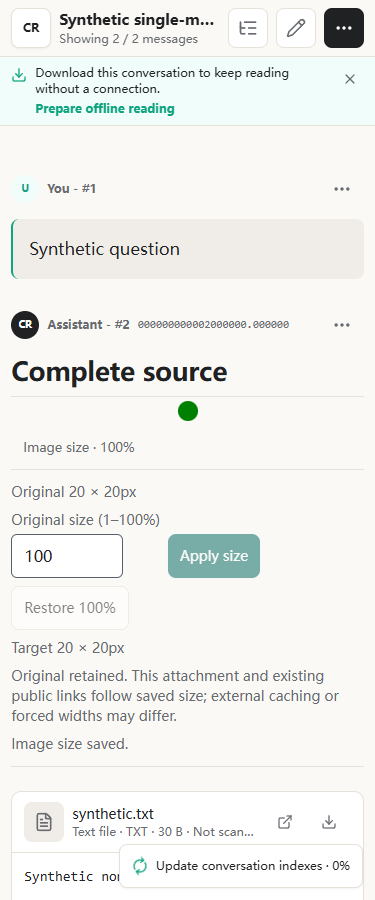
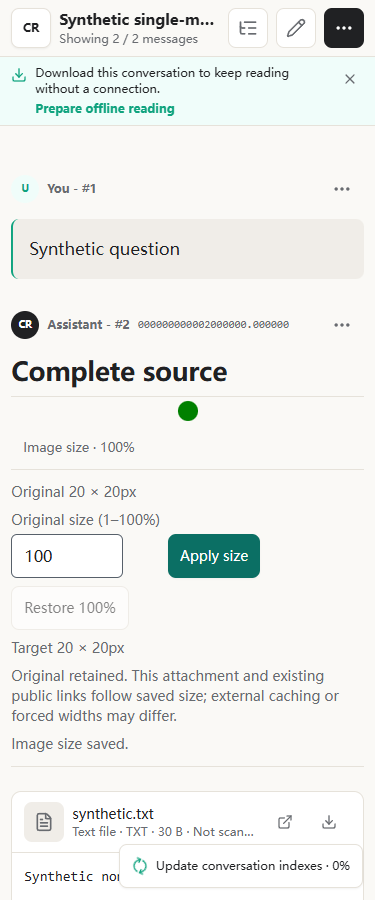
fix: bound image size reads and patch release security dependencies

Changed region(s): [[0.44, 0.5911, 0.704, 0.6533], [0.352, 0.9333, 0.3813, 0.9956]]

diff --git a/apps/web/features/attachments/image-display-controls.tsx b/apps/web/features/attachments/image-display-controls.tsx
@@ -45,7 +45,6 @@ function SizeEditor({ attachment, zh, generation }: { attachment: AttachmentRead
   const { display, queryKey } = useImageDisplay(attachment);
   useEffect(() => () => { active.current?.abort(); }, []);
   const valid = /^\d+$/.test(draft) && Number(draft) >= 1 && Number(draft) <= 100;
-  const changed = current && Number(draft) !== current.scale_percent;
   const isCurrent = (controller: AbortController) => !controller.signal.aborted && generation === authenticationGeneration();
   async function read() {
     active.current?.abort();
@@ -57,7 +56,15 @@ function SizeEditor({ attachment, zh, generation }: { attachment: AttachmentRead
       if (value.source_sha256 !== attachment.asset_object?.sha256) throw new Error("Source changed");
       setCurrent(value); setDraft(String(value.scale_percent));
       client.setQueryData(queryKey, value);
-    } catch { if (isCurrent(controller)) setError(zh ? "无法读取图片尺寸，请重新读取。" : "Could not read image dimensions. Reload to retry."); }
+    } catch (failure) {
+      if (isCurrent(controller)) {
+        const unsupported = typeof failure === "object" && failure !== null && "status" in failure
+          && (failure.status === 413 || failure.status === 422);
+        setError(unsupported
+          ? (zh ? "图片过大或不支持安全缩放，仍可查看或下载原图。" : "Image is too large or unsupported for safe sizing. View or download the original instead.")
+          : (zh ? "无法读取图片尺寸，请重新读取。" : "Could not read image dimensions. Reload to retry."));
+      }
+    }
     finally { if (isCurrent(controller)) setBusy(false); }
   }
   async function save(percent: number) {
@@ -91,7 +98,7 @@ function SizeEditor({ attachment, zh, generation }: { attachment: AttachmentRead
     {open ? <div className="border-y border-ui py-3">
       <p>{current ? `${zh ? "原始" : "Original"} ${current.original_width} × ${current.original_height}px`
         : busy ? (zh ? "正在读取原始尺寸…" : "Reading original dimensions…") : (zh ? "原始尺寸尚未读取" : "Original dimensions unavailable")}</p>
-      <form className="mt-2 flex flex-wrap items-end gap-2" onSubmit={event => { event.preventDefault(); if (valid && changed && !error) void save(Number(draft)); }}>
+      <form className="mt-2 flex flex-wrap items-end gap-2" onSubmit={event => { event.preventDefault(); if (valid && current && !error) void save(Number(draft)); }}>
         <label className="flex flex-col gap-1">
           <span>{zh ? "相对原图比例（1–100%）" : "Original size (1–100%)"}</span>
           <input type="number" min="1" max="100" step="1" value={draft}
@@ -99,7 +106,7 @@ function SizeEditor({ attachment, zh, generation }: { attachment: AttachmentRead
             className="image-display-input h-11 w-28 rounded-md border bg-surface px-3 text-base text-primary focus-visible:outline-none focus-visible:ring-2 focus-visible:ring-[var(--focus)]"
             onChange={event => { setDraft(event.target.value); setSaved(false); }} />
         </label>
-        <button type="submit" className="btn-primary image-display-apply min-h-11 shrink-0 px-3" disabled={busy || !valid || !changed || Boolean(error)}>
+        <button type="submit" className="btn-primary image-display-apply min-h-11 shrink-0 px-3" disabled={busy || !current || !valid || Boolean(error)}>
           {busy ? (zh ? "处理中…" : "Working…") : (zh ? "应用比例" : "Apply size")}
         </button>
         <button type="button" className="btn-secondary min-h-11 shrink-0 px-3" disabled={busy || !current || current.scale_percent === 100 || Boolean(error)} onClick={() => void save(100)}>

diff --git a/apps/web/e2e/message-markdown-copy.spec.ts b/apps/web/e2e/message-markdown-copy.spec.ts
@@ -91,12 +91,34 @@ for (const width of [1440, 375]) test(`${width}px copies whole message Markdown 
     // private and unchanged. Exercise real inline controls, not a CSS adapter.
     const original = await page.request.get(`/api/attachments/${svg.id}/content`);
     const originalBytes = await original.body();
+    // Explicit failure injection only: an admission denial must not suggest
+    // blindly resaving or replace the retained original.
+    const displayRoute = `**/api/attachments/${svg.id}/image-display`;
+    await page.route(displayRoute, route => route.fulfill({
+      status: 413, contentType: "application/json", body: '{"detail":"Synthetic size admission limit"}',
+    }));
     await article.getByRole("button", { name: /Image size ·|图片大小 ·/ }).click();
+    await expect(article.getByRole("alert")).toHaveText(/View or download the original|仍可查看或下载原图/);
     const scale = article.getByRole("spinbutton", { name: /Image scale percentage|图片缩放百分比/ });
+    await expect(scale).toBeDisabled();
+    await page.unroute(displayRoute);
+    await article.getByRole("button", { name: /Reload size|重新读取/ }).click();
     await expect(scale).toHaveValue("100");
-    await scale.fill("50");
-    await article.getByRole("button", { name: /Apply size|应用比例/ }).click();
+    // Explicitly applying the unchanged 100% configures intrinsic size; the
+    // same action remains available for a missing-derivative repair.
+    const applySize = article.getByRole("button", { name: /Apply size|应用比例/ });
+    await expect(applySize).toBeEnabled();
+    await applySize.click();
     await expect(article.getByRole("status").filter({ hasText: /Image size saved|比例已保存/ })).toBeVisible();
+    await scale.fill("50");
+    await applySize.click();
+    await expect(article.getByRole("status").filter({ hasText: /Image size saved|比例已保存/ })).toBeVisible();
+    await expect(applySize).toBeEnabled();
+    await Promise.all([
+      page.waitForResponse(response => response.url().endsWith(`/api/attachments/${svg.id}/image-display`)
+        && response.request().method() === "PUT" && response.status() === 200),
+      applySize.click(),
+    ]);
     expect((await page.request.get(`/api/attachments/${svg.id}/image-display`)).status()).toBe(200);
     const imageSize = async () => {
       await external.goto(url!);

diff --git a/apps/api/tests/test_image_display.py b/apps/api/tests/test_image_display.py
@@ -231,6 +231,7 @@ def test_exif_orientation_is_applied_once_from_original(client, monkeypatch, tmp
 @pytest.mark.parametrize("boundary", ["source_pixels", "result_pixels", "result_edge", "bytes"])
 def test_resize_limits_preserve_last_saved_setting(client, monkeypatch, tmp_path, boundary):
     import app.services.assets.image_display as service
+    byte_limit = service.MAX_BYTES
     case = seed(monkeypatch, tmp_path)
     assert save(client, case, 50).status_code == 200
     if boundary == "source_pixels":
@@ -247,4 +248,30 @@ def test_resize_limits_preserve_last_saved_setting(client, monkeypatch, tmp_path
     # to different bytes. Other failures leave the previous 50% selection intact.
     expected = 100 if boundary == "result_edge" else 50
     assert save(client, case, 90, expected=expected).status_code == 413
+    monkeypatch.setattr(service, "MAX_BYTES", byte_limit)
     assert client.get(endpoint(case)).json()["scale_percent"] == expected
+
+
+@pytest.mark.parametrize("boundary", ["recorded", "actual"])
+def test_header_inspection_checks_bytes_before_pillow(client, monkeypatch, tmp_path, boundary):
+    import app.services.assets.image_display as service
+    from app.services.assets.asset_store import get_asset_store
+    case = seed(monkeypatch, tmp_path)
+    assert save(client, case, 50).status_code == 200
+    with database() as db:
+        asset = db.get(AssetObject, uuid.UUID(case["raster_asset"]))
+        if boundary == "recorded":
+            asset.byte_size = service.MAX_BYTES + 1
+            db.commit()
+        else:
+            # Synthetic task storage only. A sparse extension also proves the
+            # actual file bound is independent of potentially stale metadata.
+            with get_asset_store().resolve_key(asset.storage_key).open("r+b") as stream:
+                stream.truncate(service.MAX_BYTES + 1)
+    def forbidden_decode(*args, **kwargs):
+        raise AssertionError("Pillow must not inspect an over-limit file")
+    monkeypatch.setattr(service.Image, "open", forbidden_decode)
+    assert client.get(endpoint(case)).status_code == 413
+    assert save(client, case, 100, expected=50).status_code == 413
+    with database() as db:
+        assert db.get(Attachment, uuid.UUID(case["raster"])).metadata_["image_display_v1"]["scale_percent"] == 50

diff --git a/apps/api/app/services/assets/image_display.py b/apps/api/app/services/assets/image_display.py
@@ -70,6 +70,10 @@ def dimensions(content) -> tuple[int, int]:
             raise AttachmentAccessError("SVG dimensions are unsupported.", 422) from exc
     if mime not in RASTER_TYPES:
         raise AttachmentAccessError("Only supported images can be resized.", 422)
+    # Header inspection can itself read large EXIF/ICC/text segments. Enforce
+    # the encoded-byte limit before Pillow, including the read-only size route.
+    if content.asset_object.byte_size > MAX_BYTES or content.path.stat().st_size > MAX_BYTES:
+        raise AttachmentAccessError("Image exceeds the 16 MiB size-inspection limit.", 413)
     try:
         with warnings.catch_warnings():
             warnings.simplefilter("error", Image.DecompressionBombWarning)

diff --git a/docs/execution/IMAGE_DISPLAY_SCALE_2026-10-23.md b/docs/execution/IMAGE_DISPLAY_SCALE_2026-10-23.md
@@ -37,7 +37,7 @@ owns all resource, URL and compatibility limits.
 
 ## Local validation
 
-- Focused API: **48 passed**, including EXIF, metadata stripping and failure
+- Focused API: **50 passed**, including EXIF, metadata stripping and failure
   preservation. Attachment bundle/integrity/range/renderer/storage/upload plus
   offline asset compatibility: **54 passed**.
 - Service-free UX: **1,535 passed, zero skipped**.
@@ -72,3 +72,32 @@ Complete exact-source five-job CI, independent archive/source verification,
 fresh preflight, stopped-writer five-component backup, no-build deployment and
 runtime acceptance are still required. Do not infer release success from local
 tests or previous release receipts.
+
+### First CI and bounded follow-up
+
+Feature commit `d134d02969ebc13e3101a74c4f62e231f0dc9c7e` was pushed and run
+`39829506577` dispatched at **2026-10-22 18:13:50 UTC**. Its earliest result-read
+gate was **19:03:50 UTC**; the actual read at **19:04:48 UTC** respected it.
+API/settings jobs passed; Web stopped at official npm dependency audit, so
+build/independent artifact jobs were skipped. No deployable images were accepted
+and no production operation occurred.
+
+During that wait, resource review found raster size-reading reached Pillow before
+the encoded-byte check. The follow-up checks both stored and actual file length
+before header/EXIF inspection, including GET and 100% saves. Two new tests prove
+Pillow is never invoked for either over-limit source and the last saved selection
+is retained. The desktop/mobile browser test injects one explicit HTTP 413 and
+checks original-access instructions, disabled saves and successful read recovery;
+normal sizing continues against real Next/API/PostgreSQL.
+The Apply action also accepts the unchanged percentage after a successful read:
+this makes initial 100% explicit and exposes same-size derivative repair instead
+of forcing an artificial 50→49→50 change. Unknown writes still require a read
+before another save. Both viewport tests cover unchanged 100% and 50% application.
+
+The blocked advisories require Next **16.4.1**; a fresh official audit also requires
+DOMPurify **3.4.17**. Only those existing dependency families and their lock
+entries change. No audit exception or severity threshold changes. Local official
+policy reports **zero unapproved findings / zero policy errors**, retaining the
+existing tested braces patch and reporting the lower-severity KaTeX/PostCSS
+findings. The dependency patch regressions pass **9 tests**. A new full CI and
+fresh 50-minute wait are required after the final local reruns.

diff --git a/PROJECT_STATE.md b/PROJECT_STATE.md
@@ -8,14 +8,21 @@ Last updated: 2026-10-23. This is the current snapshot, not a release history.
 have a 1–100% control, original/target dimensions and Restore 100%. Original bytes
 are retained; the same attachment and previously published URL follow the saved
 selection. External caches/forced widths are not controllable. Source-bound
-metadata and existing derivatives are reused; no migration/dependency or offline
-format change, head remains `20261022_0053`. See the
+metadata and existing derivatives are reused; no migration or offline format
+change, head remains `20261022_0053`. The release also upgrades existing Next to
+16.4.1 and DOMPurify to 3.4.17 after the first CI's security-audit failure; no
+new direct dependency or audit exception. Read-only size inspection now checks
+stored/actual encoded bytes before Pillow, with original-access recovery. See the
 [current contract](docs/system/MESSAGE_MARKDOWN_COPY_CONTRACT.md#owner-selected-image-size)
 and [implementation/release record](docs/execution/IMAGE_DISPLAY_SCALE_2026-10-23.md).
 Commit/deployment is authorized after validation. **For each CI run, wait
 50 minutes after starting it before checking its result**, then require all five
 jobs and independent exact-artifact acceptance before production. This feature
 is not deployed at this checkpoint; the accepted runtime below is still current.
+First run `39829506577` was checked only after its 50-minute deadline: API and
+settings passed, Web failed official-registry dependency audit and images were
+skipped. The repaired source requires a fresh complete run and another 50-minute
+wait, not reuse of that failed run.
 
 **Current work (2026-10-22): single-message Markdown copy.** The owner Reader's
 top copy action is immediately before bookmark. It prepares complete canonical

diff --git a/docs/system/MESSAGE_MARKDOWN_COPY_CONTRACT.md b/docs/system/MESSAGE_MARKDOWN_COPY_CONTRACT.md
@@ -128,6 +128,8 @@ in ordinary Markdown clients without nonstandard image-size syntax. The
 response remains no-store with live source/scan/deletion checks. A missing
 selected derivative fails closed rather than silently serving the original;
 the owner can explicitly save again to repair it. Anonymous reads never resize.
+Apply remains available for an unchanged valid percentage after a successful
+read, including initial 100%; an uncertain write must still be checked first.
 Saving a size **does not publish** an image. Only the existing explicit
 Markdown-copy publication does.
 
@@ -146,6 +148,10 @@ original may still be used at 100%. Pixel-only PNG output discards metadata.
 Oversized, unsupported or unsafe content leaves the last valid selection
 unchanged. No new dependency, network fetch, worker or decoder is introduced.
 These are admission bounds, not a claim of measured production peak memory.
+The raster encoded-byte limit is checked against both stored size and actual
+file size **before Pillow header/EXIF inspection**, including GET and 100% saves.
+Size-reading rejection leaves the original available through its existing access
+paths; the UI directs owners there instead of suggesting a blind save retry.
 
 Share/Offline/read-only views never offer the editing control. They can render
 saved metadata with existing private/offline image access; offline copies are

diff --git a/docs/system/RELEASE_SAFETY_BASELINE.md b/docs/system/RELEASE_SAFETY_BASELINE.md
@@ -1,5 +1,17 @@
 # Release Safety Baseline
 
+2026-10-23 release prerequisite: image-scale CI `39829506577` was blocked by
+new Next advisories `GHSA-2464-fhr4-w9xw` (critical) and
+`GHSA-p3m5-59mp-jv5r` (high). A fresh official npm audit additionally identifies
+`GHSA-673q-mjm6-r5xr` and three DOMPurify advisories affecting the locked graph.
+Next moves to the advisory-defined fixed **16.4.1**, and the existing DOMPurify
+override moves to fixed **3.4.17**. Sharp remains 0.35.5. No exception, severity
+change, audit bypass or new direct dependency is introduced. Existing narrowly
+patched braces policy remains; lower-severity findings are reported, not hidden.
+Full exact-source CI and runtime acceptance are still required; see the
+[image-scale release record](../execution/IMAGE_DISPLAY_SCALE_2026-10-23.md).
+The dated version statements below retain their historical scope.
+
 2026-10-18 disposable CI PostgreSQL availability repair: quality jobs start
 their fixture after checkout with `scripts/ci/postgres-service.sh start`.
 It tries the previously verified ECR Public index, then Docker Hub's official

diff --git a/docs/system/PDFJS_MIGRATION_CONTRACT.md b/docs/system/PDFJS_MIGRATION_CONTRACT.md
@@ -18,7 +18,7 @@ See the current [attachment contract](ATTACHMENT_RENDERER_CONTRACT.md) and
 [audit/evidence](../execution/ux-audit-attachment-reading-2026-10-09.md).
 This is not a second engine migration or a new worker/dependency. The earlier
 Release G acceptance below does not establish acceptance of the new follow-up.
-Current Next is 16.3.8, Dexie is v2 and offline packages retain v1/v2/v3 reads;
+Current Next is 16.4.1, Dexie is v2 and offline packages retain v1/v2/v3 reads;
 the older platform snapshot below describes Release G only.
 
 Last updated: 2026-08-16
@@ -37,7 +37,7 @@ pdfjs-dist 3.11.174
 ```
 
 Release G used Next `16.3.1`; the current security-maintenance baseline is Next
-`16.3.6`. React/ReactDOM `19.2.8`, Webpack, the unified Attachment Viewer,
+`16.4.1`. React/ReactDOM `19.2.8`, Webpack, the unified Attachment Viewer,
 authenticated attachment routes, Share scope, offline package v2 and Dexie v1
 remain unchanged. Turbopack, CSP enforcement, PDF editing, OCR,
 annotation-editor features and database work are not part of this migration.

diff --git a/docs/documentation-inventory.md b/docs/documentation-inventory.md
@@ -8,8 +8,12 @@ conversion bounds and portable/offline limitations. API/testing/deployment
 describe owner routes, executable gates and the user's 50-minute wait per CI run.
 `PROJECT_STATE.md` and `index.md` link current scope; the dated
 `execution/IMAGE_DISPLAY_SCALE_2026-10-23.md` records evidence and release status,
-not an independent runtime truth. No migration, dependency or package version
-change. Only synthetic content and nonsecret release receipts may be retained.
+not an independent runtime truth. No migration or offline package-version change.
+The first exact CI failed new upstream dependency advisories; existing Next and
+DOMPurify upgrade to 16.4.1/3.4.17, tracked in `system/RELEASE_SAFETY_BASELINE.md`
+and reflected by `system/PDFJS_MIGRATION_CONTRACT.md`'s source platform snapshot.
+No direct dependency/exception/gate is added. Only synthetic content and nonsecret
+release receipts may be retained.
 
 ## Single-message Markdown copy — 2026-10-22
 

diff --git a/docs/deployment.md b/docs/deployment.md
@@ -6,7 +6,9 @@
 job 成功且独立精确制品验收通过后部署；重试 CI 重新计时。当前实测与发布
 状态见[实施记录](execution/IMAGE_DISPLAY_SCALE_2026-10-23.md)，旧记录不是本轮验收。
 
-无 migration、依赖或新配置，单一 head 保持 `20261022_0053`。保留现有
+无 migration 或新配置，单一 head 保持 `20261022_0053`。首轮被新的依赖安全
+公告拦截后，现有 Next/DOMPurify 升级至 `16.4.1`/`3.4.17`，不新增例外或弱化门禁。
+保留现有
 public-images Nginx 隐私/no-store location，不覆盖服务器配置。展示比例在
 PostgreSQL 附件 metadata，派生 PNG 在 assets；必须有停止应用写入后的五组件
 备份与已验证回退镜像。只用本轮精确 CI 制品 `--no-build` 替换应用，不重启
